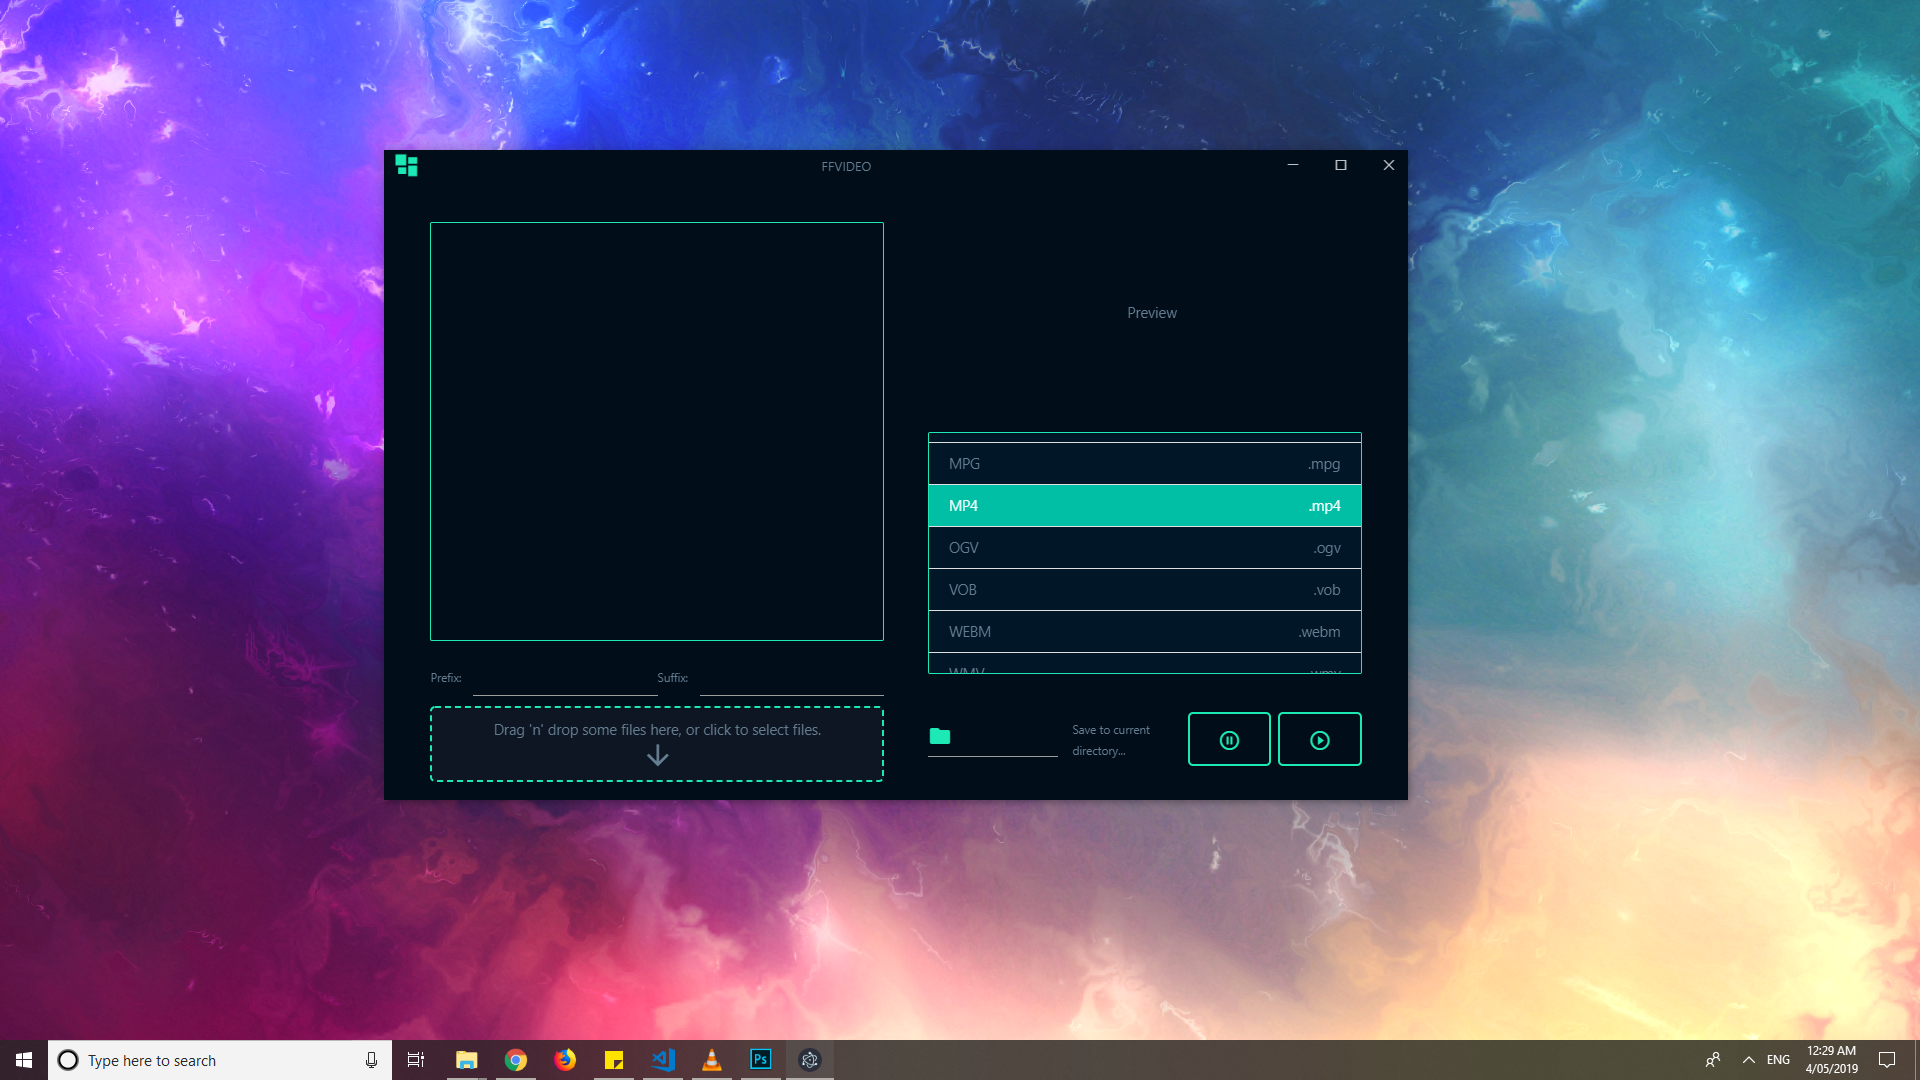
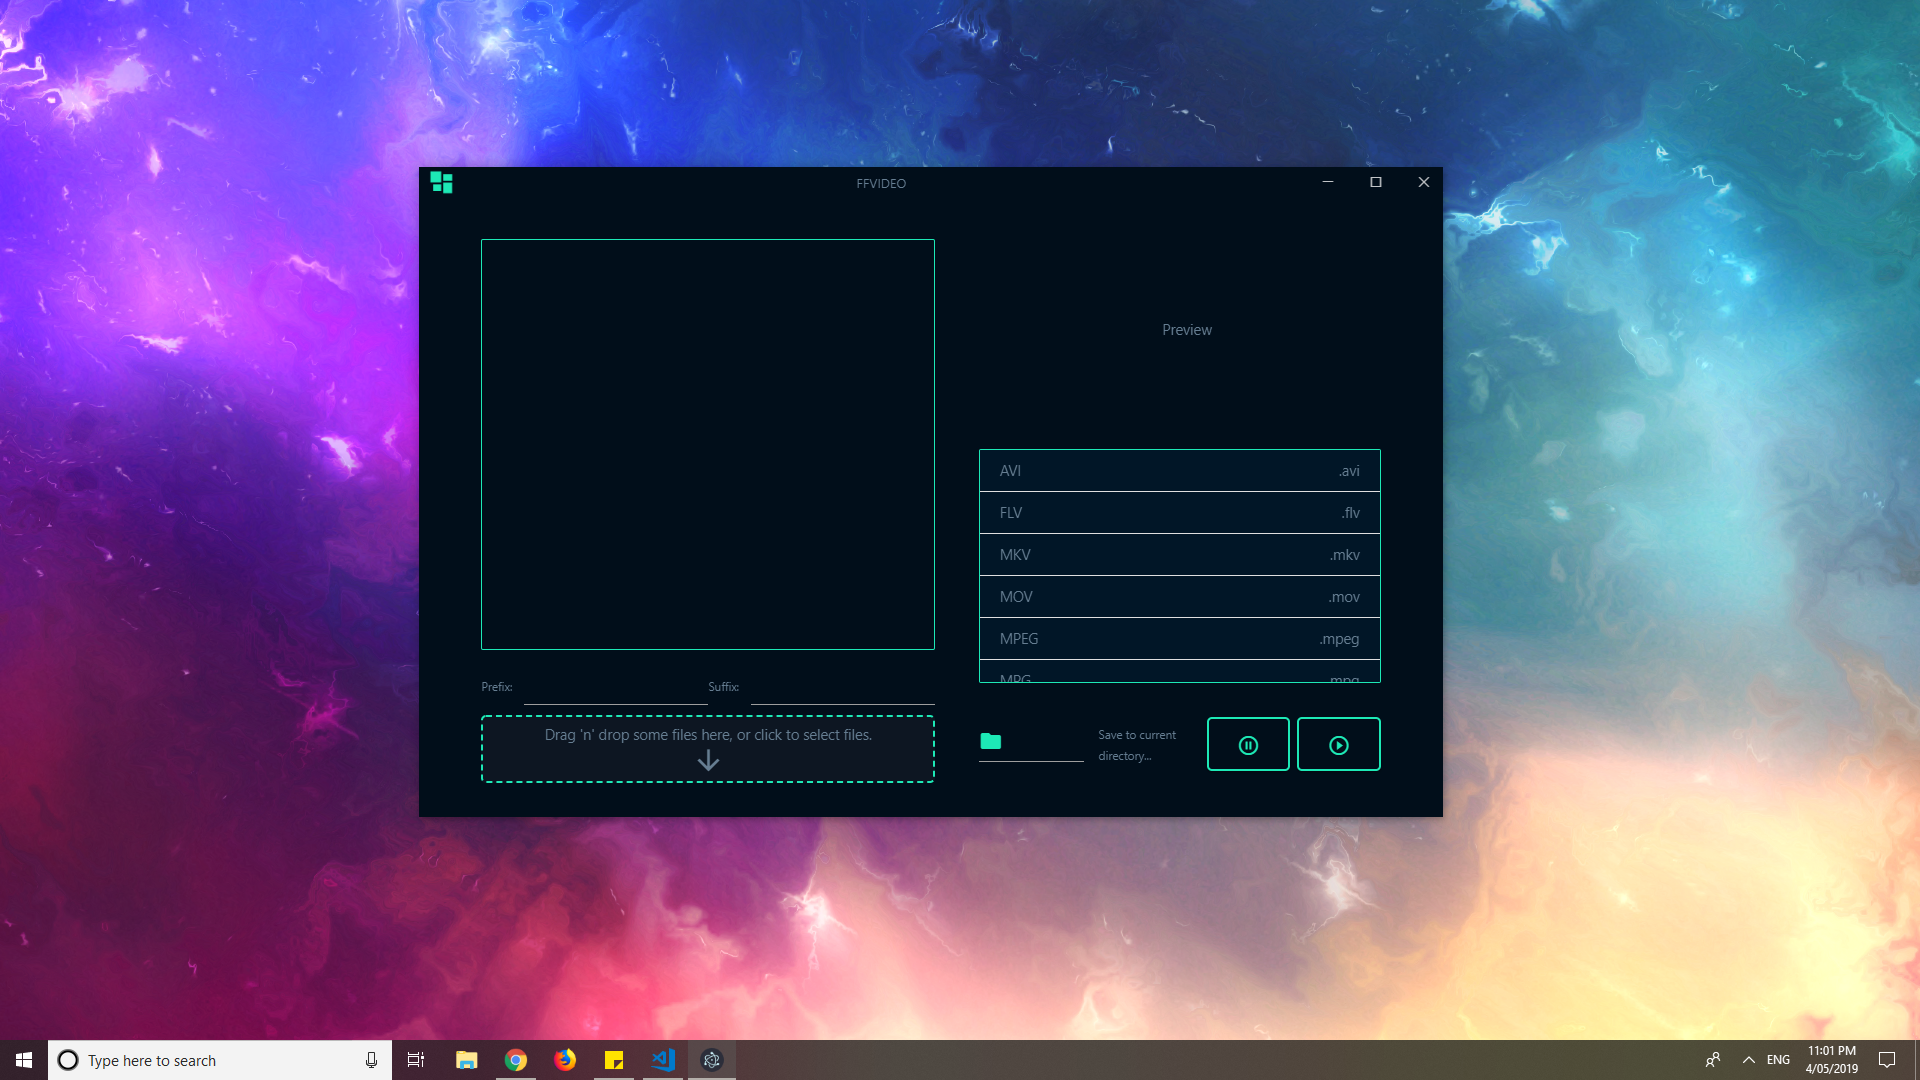
Increased padding. Updated demo images and readme.

diff --git a/src/App.js b/src/App.js
@@ -35,8 +35,7 @@ const InnerWrapper = styled.div.attrs({
   display: grid;
   width: 100%;
   height: 95vh;
-  padding: 1.2rem; 
-  padding-top: 2.3rem;
+  padding: 2.3rem;
   grid-template-columns: repeat(10, auto);
   grid-template-rows: repeat(10, auto);
 `;

diff --git a/README.md b/README.md
@@ -12,7 +12,6 @@ cd FFVideo
 ### Demo
 <img src="samples/nofiles.png" height="300" alt="nofiles">
 <img src="samples/withconverted.png" height="300" alt="withconverted">
-<img src="samples/withfiles.png" height="300" alt="withfiles">
 
 ## Usage
 
